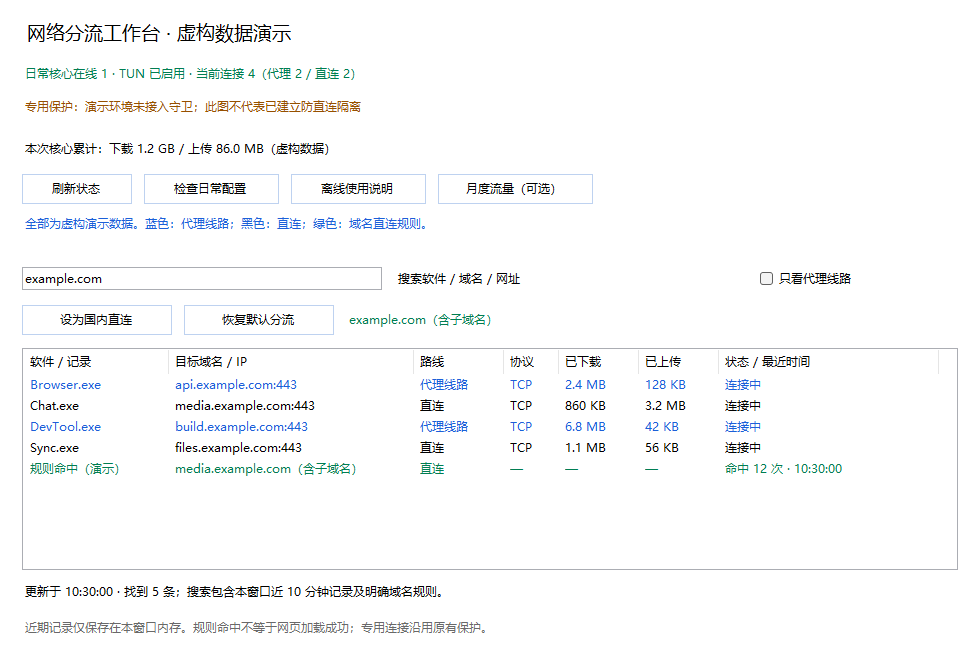
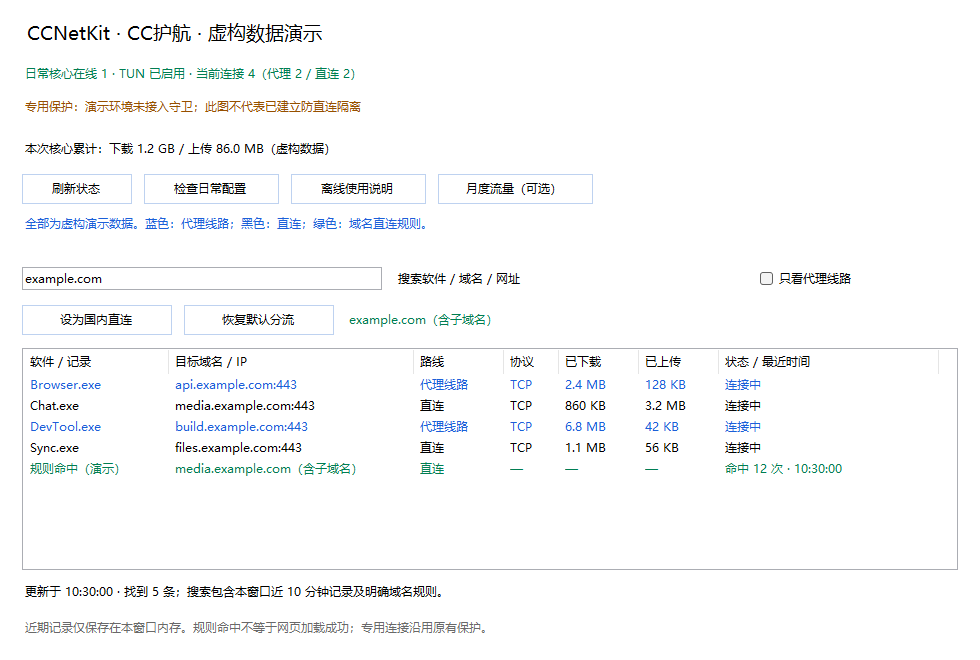
Unify CCNetKit skill identity, archive layout and interface branding

Changed region(s): [[0.0306, 0.0303, 0.3367, 0.0909]]

diff --git a/assets/runtime/mac_ui.html b/assets/runtime/mac_ui.html
@@ -1,11 +1,11 @@
 <!doctype html>
 <html lang="zh-CN"><meta charset="utf-8"><meta name="viewport" content="width=device-width,initial-scale=1">
-<title>网络分流工作台</title>
+<title>CCNetKit · CC护航</title>
 <style>
 body{font:14px -apple-system,BlinkMacSystemFont,sans-serif;color:#15243b;background:#fff;margin:32px auto;max-width:1080px;padding:0 20px}
 h1{font-size:21px;font-weight:500;color:#1565ef}p{line-height:1.7}input,button{font:inherit;padding:9px 12px;border:1px solid #bccde8;border-radius:6px;background:#fff}input{width:min(380px,85%)}button{color:#145dcc;cursor:pointer;margin:4px}button:disabled{opacity:.5;cursor:wait}table{width:100%;border-collapse:collapse;margin-top:16px;font-size:13px}td,th{text-align:left;padding:10px 6px;border-bottom:1px solid #e4ecf5;word-break:break-all}th{font-weight:500}.proxy{color:#0864ef}.direct{color:#15243b}.error{color:#c32727}#status{color:#008b68}#message{min-height:24px}small{color:#556981} .scroll{overflow:auto}
 </style>
-<h1>网络分流工作台 · Mac</h1>
+<h1>CCNetKit · CC护航 · Mac</h1>
 <p id="status">正在读取本机核心…</p>
 <small>蓝色为代理，黑色为直连。仅管理日常分流，不解除专用应用保护。</small>
 <p><input id="query" placeholder="输入软件、域名或网址搜索" aria-label="搜索">

diff --git a/assets/runtime/Workbench.cs b/assets/runtime/Workbench.cs
@@ -150,8 +150,8 @@ class Workbench:Form {
     Label LabelAt(string text,int x,int y,int w,int h){var l=new Label(){Text=text,Location=new Point(x,y),Size=new Size(w,h)};Controls.Add(l);return l;}
     Button ButtonAt(string text,int x,int y,int w,Action action){var b=new Button(){Text=text,Location=new Point(x,y),Size=new Size(w,30),FlatStyle=FlatStyle.Flat,BackColor=Color.White};b.FlatAppearance.BorderColor=Color.FromArgb(190,210,240);b.Click+=(s,e)=>action();Controls.Add(b);return b;}
     internal Workbench() {
-        Text="网络分流工作台";Font=new Font("Microsoft YaHei UI",9);BackColor=Color.White;ClientSize=new Size(980,660);MinimumSize=new Size(980,660);StartPosition=FormStartPosition.CenterScreen;
-        LabelAt("网络分流工作台",22,20,700,30).Font=new Font(Font.FontFamily,14);
+        Text="CCNetKit · CC护航";Font=new Font("Microsoft YaHei UI",9);BackColor=Color.White;ClientSize=new Size(980,660);MinimumSize=new Size(980,660);StartPosition=FormStartPosition.CenterScreen;
+        LabelAt("CCNetKit · CC护航",22,20,700,30).Font=new Font(Font.FontFamily,14);
         overview=LabelAt("读取本机日常分流…",22,65,930,25);protection=LabelAt("专用保护状态：读取中…",22,98,930,32);
         speed=LabelAt("本次核心累计：—",22,140,930,24);
         ButtonAt("刷新状态",22,174,110,()=>RefreshSnapshot());
@@ -190,7 +190,7 @@ class Workbench:Form {
         current.Rows.Add(new[]{"DevTool.exe","build.example.com:443","代理线路","TCP","6.8 MB","42 KB","连接中","demo-3"});
         current.Rows.Add(new[]{"Sync.exe","files.example.com:443","直连","TCP","1.1 MB","56 KB","连接中","demo-4"});
         current.RuleRows.Add(new[]{"规则命中（演示）","media.example.com（含子域名）","直连","—","—","—","命中 12 次 · 10:30:00"});
-        Controls[0].Text="网络分流工作台 · 虚构数据演示";
+        Controls[0].Text="CCNetKit · CC护航 · 虚构数据演示";
         overview.Text="日常核心在线 1 · TUN 已启用 · 当前连接 4（代理 2 / 直连 2）";overview.ForeColor=Green;
         protection.Text="专用保护：演示环境未接入守卫；此图不代表已建立防直连隔离";protection.ForeColor=Color.FromArgb(150,80,0);
         speed.Text="本次核心累计：下载 1.2 GB / 上传 86.0 MB（虚构数据）";

diff --git a/tests/test_fresh_install.py b/tests/test_fresh_install.py
@@ -26,9 +26,9 @@ class FreshInstall(unittest.TestCase):
         archive = self.base / "release.zip"
         package(SOURCE, archive)
         with zipfile.ZipFile(archive) as z:
-            self.assertEqual(set(z.namelist()), {"windows-network-workbench/" + f for f in FILES})
+            self.assertEqual(set(z.namelist()), {"ccnetkit/" + f for f in FILES})
             z.extractall(self.base / "New user 下载目录")
-        self.source = self.base / "New user 下载目录/windows-network-workbench"
+        self.source = self.base / "New user 下载目录/ccnetkit"
 
     def tearDown(self):
         self.temp.cleanup()
@@ -72,7 +72,9 @@ class FreshInstall(unittest.TestCase):
         self.assertEqual(hashlib.sha256((install / "settings.json").read_bytes()).digest(), before)
         self.assertEqual(install.stat().st_mode & 0o777, 0o700)
         self.assertEqual((install / "settings.json").stat().st_mode & 0o777, 0o600)
-        self.assertEqual(subprocess.run(["/bin/sh", "-n", str(install / "Open Workbench.command")],
+        self.assertEqual((install / "Open CCNetKit.command").read_bytes(),
+                         (install / "Open Workbench.command").read_bytes())
+        self.assertEqual(subprocess.run(["/bin/sh", "-n", str(install / "Open CCNetKit.command")],
                                        capture_output=True).returncode, 0)
         runtime = install / "bin/mac_workbench.py"
         check = subprocess.run([sys.executable, str(runtime), "--root", str(install), "--inspect"],

diff --git a/scripts/workbench.py b/scripts/workbench.py
@@ -40,11 +40,14 @@ def install_mac(root, settings):
         shutil.copyfile(settings, root / "settings.json")
         os.chmod(root / "settings.json", 0o600)
         runtime.atomic_write(root / "data/routes.json", b'{"SchemaVersion":1,"Profiles":{}}\n')
-        launcher = root / "Open Workbench.command"
-        launcher.write_text('#!/bin/sh\ncd -- "$(dirname -- "$0")" || exit 1\nexec '
-                            + "'" + sys.executable.replace("'", "'\"'\"'") + "'"
-                            + ' ./bin/mac_workbench.py --root "$PWD"\n', encoding="utf-8")
-        os.chmod(launcher, 0o700)
+        launch = ('#!/bin/sh\ncd -- "$(dirname -- "$0")" || exit 1\nexec '
+                  + "'" + sys.executable.replace("'", "'\"'\"'") + "'"
+                  + ' ./bin/mac_workbench.py --root "$PWD"\n')
+        # Keep the previous entry usable for existing shortcuts and instructions.
+        for name in ("Open CCNetKit.command", "Open Workbench.command"):
+            launcher = root / name
+            launcher.write_text(launch, encoding="utf-8")
+            os.chmod(launcher, 0o700)
     except Exception:
         # Only the new directory created by this invocation is removed.
         shutil.rmtree(root)

diff --git a/scripts/package_release.py b/scripts/package_release.py
@@ -25,9 +25,9 @@ def package(root: Path, output: Path):
             path = root / name
             if path.is_symlink() or root not in path.resolve().parents:
                 raise ValueError("Release source escaped the repository")
-            archive.write(path, "windows-network-workbench/" + name)
+            archive.write(path, "ccnetkit/" + name)
     with zipfile.ZipFile(output) as archive:
-        if sorted(archive.namelist()) != sorted("windows-network-workbench/" + name for name in FILES):
+        if sorted(archive.namelist()) != sorted("ccnetkit/" + name for name in FILES):
             raise ValueError("Archive allowlist verification failed")
     digest = hashlib.sha256(output.read_bytes()).hexdigest()
     output.with_suffix(output.suffix + ".sha256").write_text(digest + "  " + output.name + "\n", encoding="ascii")

diff --git a/tests/test_macos.py b/tests/test_macos.py
@@ -291,6 +291,8 @@ class MacTests(unittest.TestCase):
         result = entry.install_mac(destination, self.root / "settings.json")
         self.assertFalse(result["network_changed"])
         self.assertTrue((destination / "Open Workbench.command").exists())
+        self.assertEqual((destination / "Open CCNetKit.command").read_bytes(),
+                         (destination / "Open Workbench.command").read_bytes())
         self.assertEqual(self.config.read_bytes(), before)
         # Installed runtime must not incorrectly treat its parent as the skill source.
         app.Workbench(destination, source=destination / "bin")

diff --git a/tests/test_release.py b/tests/test_release.py
@@ -75,7 +75,7 @@ class ReleaseTests(unittest.TestCase):
             output = base / "release.zip"
             package(root, output)
             with zipfile.ZipFile(output) as archive:
-                self.assertEqual(set(archive.namelist()), {"windows-network-workbench/" + name for name in FILES})
+                self.assertEqual(set(archive.namelist()), {"ccnetkit/" + name for name in FILES})
             self.assertTrue(output.with_suffix(".zip.sha256").exists())
 
     def test_changed_demo_image_blocks_release(self):

diff --git a/scripts/release_manifest.py b/scripts/release_manifest.py
@@ -1,6 +1,6 @@
 """Publishable source and reviewed synthetic demo image. No runtime directories."""
 BINARY_SHA256 = {
[2 lines of base64/hex data omitted]
 }
 FILES = (
     ".gitignore", ".gitattributes", ".github/workflows/validate.yml",

diff --git a/README.md b/README.md
@@ -6,19 +6,21 @@
 
 ## 怎么使用
 
-打开 [最新发布页](https://github.com/luckyyy852/CCNetKit/releases/latest)，在 Assets 中下载 `windows-network-workbench-v版本号.zip`（不是 Source code）。解压后保留整个 `windows-network-workbench` 文件夹，里面应直接看到 `SKILL.md`。放入对应工具的个人技能目录：
+打开 [最新发布页](https://github.com/luckyyy852/CCNetKit/releases/latest)，在 Assets 中下载 `ccnetkit-v版本号.zip`（不是 Source code）。解压后保留整个 `ccnetkit` 文件夹，里面应直接看到 `SKILL.md`。放入对应工具的个人技能目录：
 
 | AI 工具 | 文件夹放到哪里 | 如何调用 |
 | --- | --- | --- |
-| Codex | `~/.agents/skills/windows-network-workbench/` | `$windows-network-workbench` |
-| Claude Code 本机版 | `~/.claude/skills/windows-network-workbench/` | `/windows-network-workbench` |
+| Codex | `~/.agents/skills/ccnetkit/` | `$ccnetkit` |
+| Claude Code 本机版 | `~/.claude/skills/ccnetkit/` | `/ccnetkit` |
+
+旧版已安装的技能和管理界面仍可使用；更新技能时改用 `ccnetkit` 目录和调用名，原管理界面与网络配置无需迁移。
 
 `~` 是当前用户主目录；找不到目录或工具不识别时，让 AI 按它的实际版本检查，也可直接告诉 AI 解压位置，让它读取该文件夹的 `SKILL.md`。仅上传到网页聊天或云端会话，不能自动配置你的本机网络。[Codex 官方说明](https://developers.openai.com/codex/skills/) / [Claude Code 官方说明](https://code.claude.com/docs/en/skills)。
 
-下面的指令可直接发给 Codex；Claude Code 使用上表中的 `/windows-network-workbench` 调用，再说明相同目标：
+下面的指令可直接发给 Codex；Claude Code 使用上表中的 `/ccnetkit` 调用，再说明相同目标：
 
 ```text
-使用 $windows-network-workbench，识别我的系统，使用我自己的节点为 Claude Code 配置专用网络并安装管理界面，保留已有保护、日常分流和网站中转，不上传私人配置。
+使用 $ccnetkit，识别我的系统，使用我自己的节点为 Claude Code 配置专用网络并安装管理界面，保留已有保护、日常分流和网站中转，不上传私人配置。
 ```
 
 解压后，让能操作本机的 AI 读取 `SKILL.md`。AI 会自动识别系统、检查已有网络，并识别你提供的节点链接、订阅或本地配置；缺少参数时再询问，随后完成安装和连接验证。节点和密钥保存在本机私人文件中。
@@ -50,7 +52,7 @@
 
 工作台的域名按钮需要接入 Mihomo 的持久 JSON 配置，不能直接管理任意 VPN。AI 会先检查兼容性；不能安全接入时保留原客户端，说明限制，不强行替换正常网络。
 
-Mac 支持安装、连接查询、搜索、域名直连和恢复默认功能，目前尚未完成真机验证。月度用量和附带的专用核心守卫仅 Windows 提供。Mac 严格防直连需要另行接入并验证系统出站隔离，不能仅靠代理设置保证。
+Mac 支持安装、连接查询、搜索、域名直连和恢复默认功能，已在 macOS CI 验证安装与本地界面；真实节点接入仍需在使用者机器上验证。月度用量和附带的专用核心守卫仅 Windows 提供。Mac 严格防直连需要另行接入并验证系统出站隔离，不能仅靠代理设置保证。
 
 ## 平时怎么用
 
